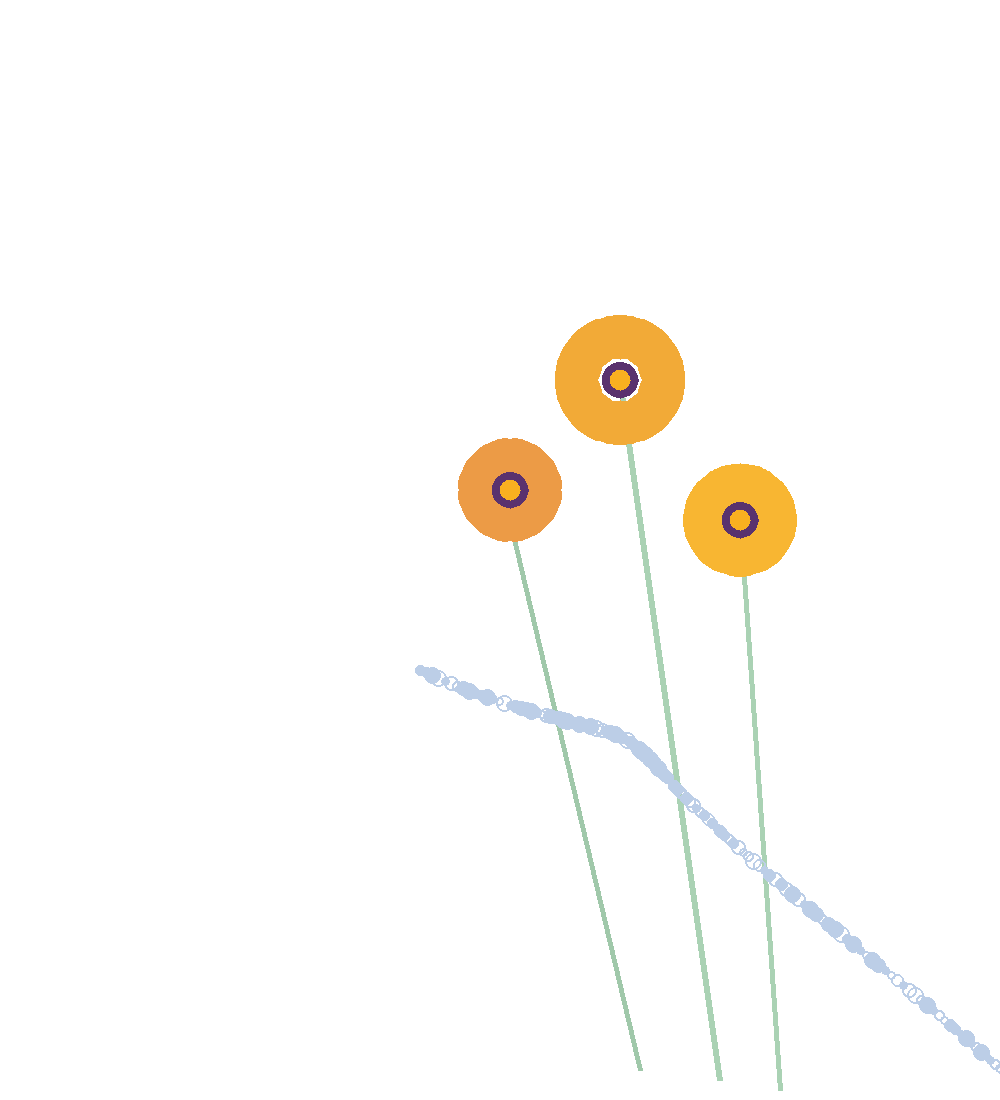
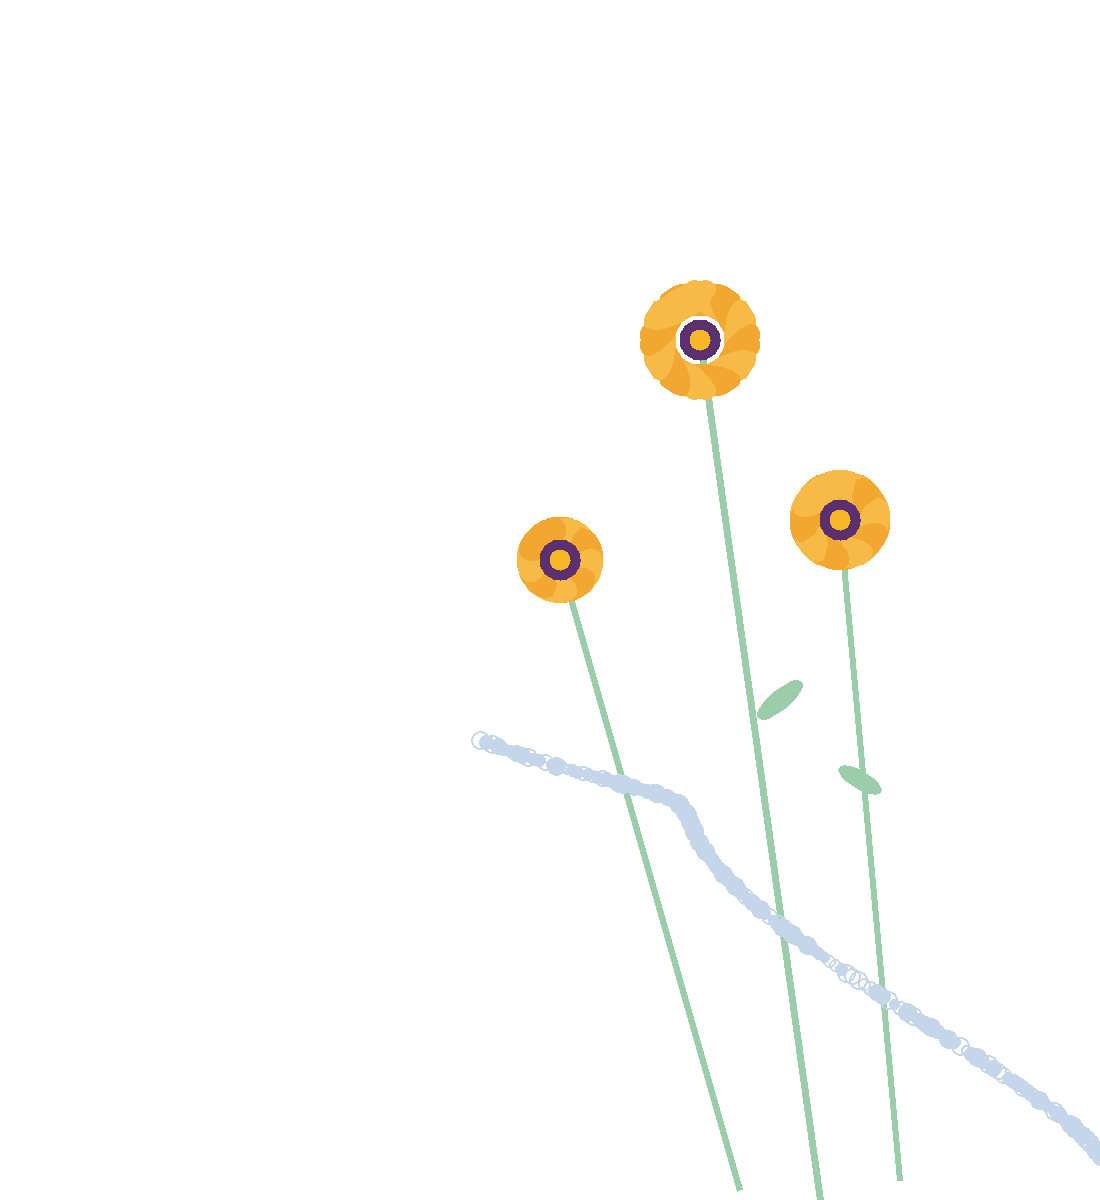
Update binary image asset for flora illustration to improve visual quality and maintain design consistency.

diff --git a/بوصلة-UT-كتيب.html b/بوصلة-UT-كتيب.html
@@ -41,7 +41,7 @@
     background:var(--paper);
     position:relative; overflow:hidden;
     box-shadow:0 4mm 10mm rgba(0,0,0,0.16);
-    padding:14mm 13mm 12mm;
+    padding:14mm 13mm 16mm;
     display:flex; flex-direction:column;
   }
   .page-foot{
@@ -78,10 +78,15 @@
 
   .logo-img{ display:block; object-fit:contain; }
 
-  /* نبات خزامى */
-  .flora{
-    position:absolute; pointer-events:none; opacity:0.92;
+  .flora-band{
+    position:absolute; inset:auto 0 0 0; height:56mm;
+    pointer-events:none; z-index:0;
   }
+  .flora-band img{ position:absolute; bottom:0; display:block; }
+  .flora-band .flora-l{ left:0; height:50mm; width:auto; }
+  .flora-band .flora-r{ right:-2mm; height:58mm; width:auto; }
+  .flora-band.soft{ opacity:0.5; }
+  .page > *:not(.flora-band){ position:relative; z-index:1; }
 
   /* ——— 01 غلاف ——— */
   .cover{ text-align:center; align-items:flex-start; }
@@ -138,15 +143,22 @@
   .qr-box img{ width:100%; height:100%; object-fit:contain; display:block; }
 
   /* ——— 05 امتيازات ——— */
-  .priv-page{ --section:var(--gold); }
-  .priv-title{ font-weight:800; font-size:20pt; color:var(--ink); margin-bottom:4mm; }
-  .priv-intro{ display:flex; gap:3mm; margin-bottom:8mm; font-size:8.2pt; line-height:1.7; color:var(--ink); max-width:110mm; }
-  .priv-intro .rule{ background:var(--gold); }
-  .priv-layout{ flex:1; display:grid; grid-template-columns:1.1fr 0.9fr; gap:6mm; position:relative; z-index:1; }
-  .priv-item{ display:flex; gap:2.5mm; margin-bottom:4.5mm; align-items:flex-start; }
-  .priv-num{ font-weight:800; font-size:9.5pt; color:var(--gold); min-width:8mm; letter-spacing:0.3px; }
-  .priv-item p{ font-size:8pt; line-height:1.55; }
-  .priv-page .flora{ bottom:8mm; left:8mm; width:42mm; }
+  .priv-page{
+    background:var(--lavender); color:#fff; --section:#fff;
+    padding:12mm 11mm 14mm;
+  }
+  .priv-page .page-foot{ color:rgba(255,255,255,0.9); }
+  .priv-page .quote-box{ border-color:rgba(255,255,255,0.85); min-height:42mm; }
+  .priv-page .quote-mark{ color:#fff; }
+  .priv-page .hint{ color:rgba(255,255,255,0.72); }
+  .priv-title{ font-weight:800; font-size:18pt; color:#fff; margin-bottom:3.5mm; line-height:1.3; }
+  .priv-intro{ font-size:8pt; line-height:1.7; color:#fff; opacity:0.95; }
+  .priv-top{ display:grid; grid-template-columns:1.15fr 0.85fr; gap:6mm; margin-bottom:8mm; }
+  .priv-points{
+    display:grid; grid-template-columns:1fr 1fr; gap:3mm 8mm;
+    flex:1; align-content:start;
+  }
+  .priv-points p{ font-size:7.8pt; line-height:1.55; margin-bottom:3.5mm; }
 
   /* ——— 06 رحلة ——— */
   .journey-page{ background:var(--lavender); color:#fff; padding:0; }
